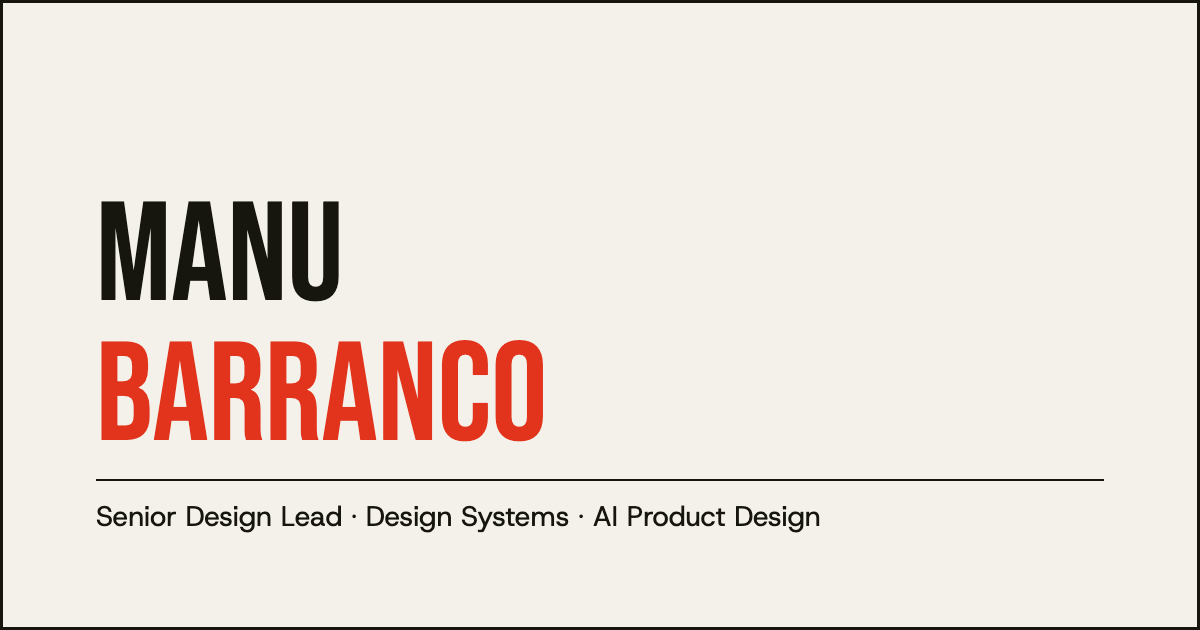
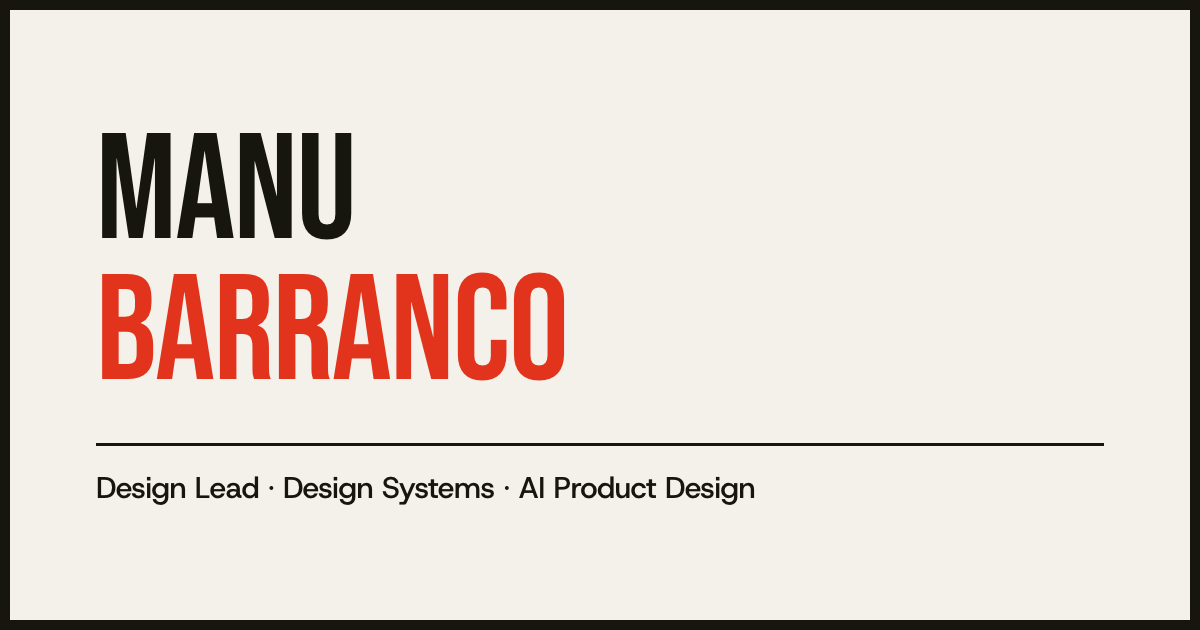
fix(copy): spelling, dating and positioning pass on the Acto 0
- Beat 02 drops the 1996 date (CSS/JS did not exist in usable form that
  year) and leads with "still a teenager" instead, which is the better
  fact anyway. JavaScript now spelled correctly.
- Beat 03 becomes "Four years later" so the arc reads as relative time.
- "Human centered design" -> "Human-centered design", matching the work
  intro two sections below.
- "the Design discipline" -> lowercase, like the rest of the site.
- Cover tagline drops "Senior": the role being targeted is called Design
  Lead, and 25 years of arc already carry the seniority.
- Hero status pill: "Available for new challenges" was a cliche and said
  nothing. Now names the level and the city.
- og-image.png re-rendered from the new tagline, with its HTML source
  checked in at scripts/og-image.html so it stays regenerable.

Changed region(s): [[0.0617, 0.2111, 0.925, 0.7238], [0.0, 0.0, 1.0, 0.9952], [0.0617, 0.754, 0.8942, 0.8444]]

diff --git a/scripts/og-image.html b/scripts/og-image.html
@@ -1,0 +1,73 @@
+<!doctype html>
+<!--
+  Source of truth for public/og-image.png (1200x630 social card).
+  Regenerate after changing the cover tagline:
+
+    "/Applications/Google Chrome.app/Contents/MacOS/Google Chrome" \
+      --headless --disable-gpu --hide-scrollbars \
+      --window-size=1200,630 --virtual-time-budget=8000 \
+      --screenshot=public/og-image.png \
+      "file://$PWD/scripts/og-image.html"
+
+  Colors and fonts are the default (Ruralvia-neutral) theme tokens from
+  src/styles/global.css. Keep them in sync by hand: this file is rendered
+  outside Astro, so it cannot import the stylesheet.
+-->
+<html lang="en">
+  <head>
+    <meta charset="utf-8" />
+    <link rel="preconnect" href="https://fonts.googleapis.com" />
+    <link rel="preconnect" href="https://fonts.gstatic.com" crossorigin />
+    <link
+      href="https://fonts.googleapis.com/css2?family=Bebas+Neue&family=Host+Grotesk:wght@400..700&display=swap"
+      rel="stylesheet"
+    />
+    <style>
+      :root {
+        --bg: #f3f1ea;
+        --fg: #16160f;
+        --accent: #e2341d;
+      }
+      * { margin: 0; padding: 0; box-sizing: border-box; }
+      html, body { width: 1200px; height: 630px; }
+      body {
+        background: var(--bg);
+        border: 10px solid var(--fg);
+        display: flex;
+        flex-direction: column;
+        justify-content: center;
+        padding: 0 86px;
+        font-family: 'Host Grotesk', system-ui, sans-serif;
+        color: var(--fg);
+        -webkit-font-smoothing: antialiased;
+      }
+      .name {
+        display: flex;
+        flex-direction: column;
+        font-family: 'Bebas Neue', system-ui, sans-serif;
+        font-size: 150px;
+        line-height: 0.94;
+        letter-spacing: -0.01em;
+      }
+      .name .accent { color: var(--accent); }
+      .rule {
+        height: 3px;
+        background: var(--fg);
+        margin: 38px 0 22px;
+      }
+      .tagline {
+        font-size: 30px;
+        font-weight: 500;
+        letter-spacing: -0.015em;
+      }
+    </style>
+  </head>
+  <body>
+    <div class="name">
+      <span>MANU</span>
+      <span class="accent">BARRANCO</span>
+    </div>
+    <div class="rule"></div>
+    <p class="tagline">Design Lead · Design Systems · AI Product Design</p>
+  </body>
+</html>
